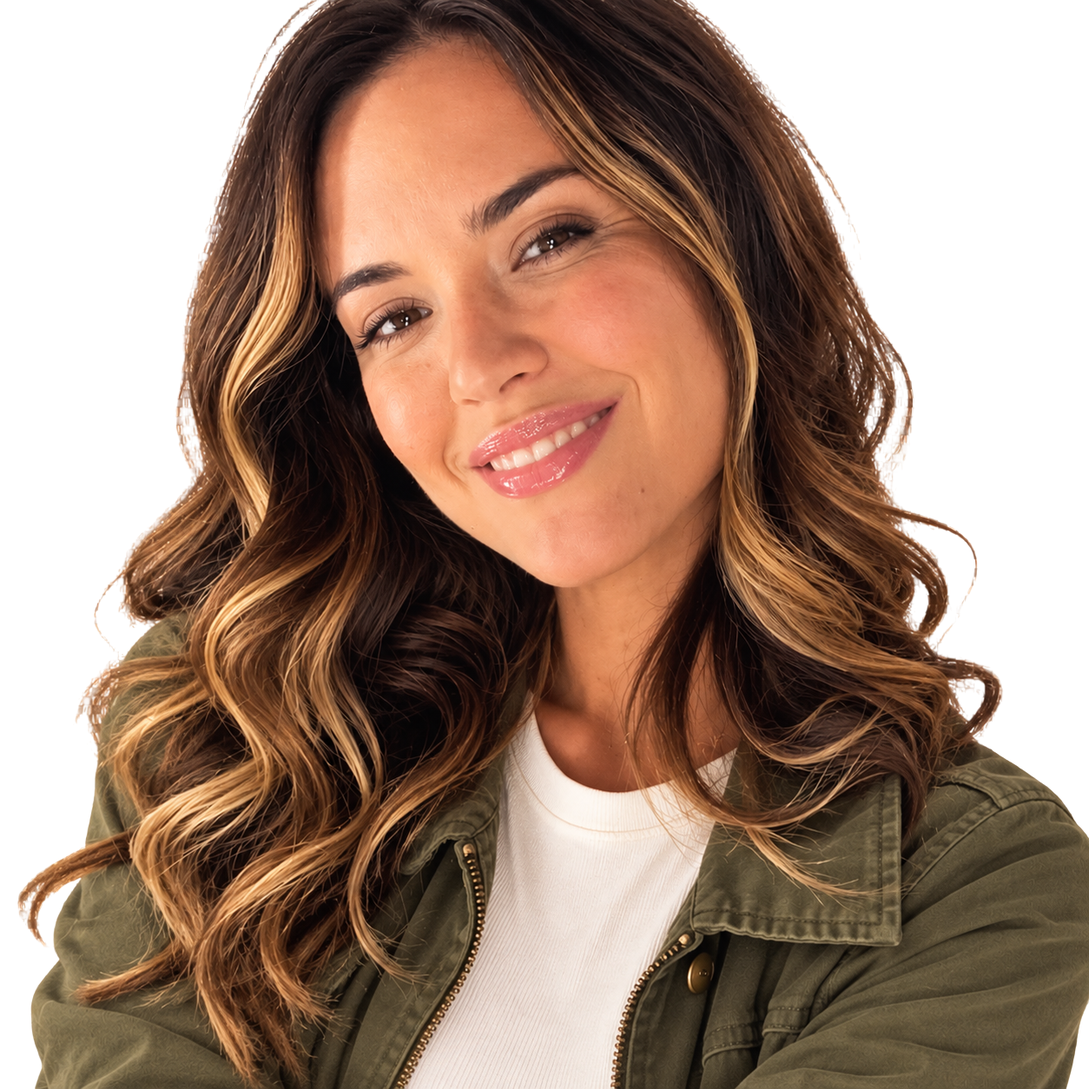
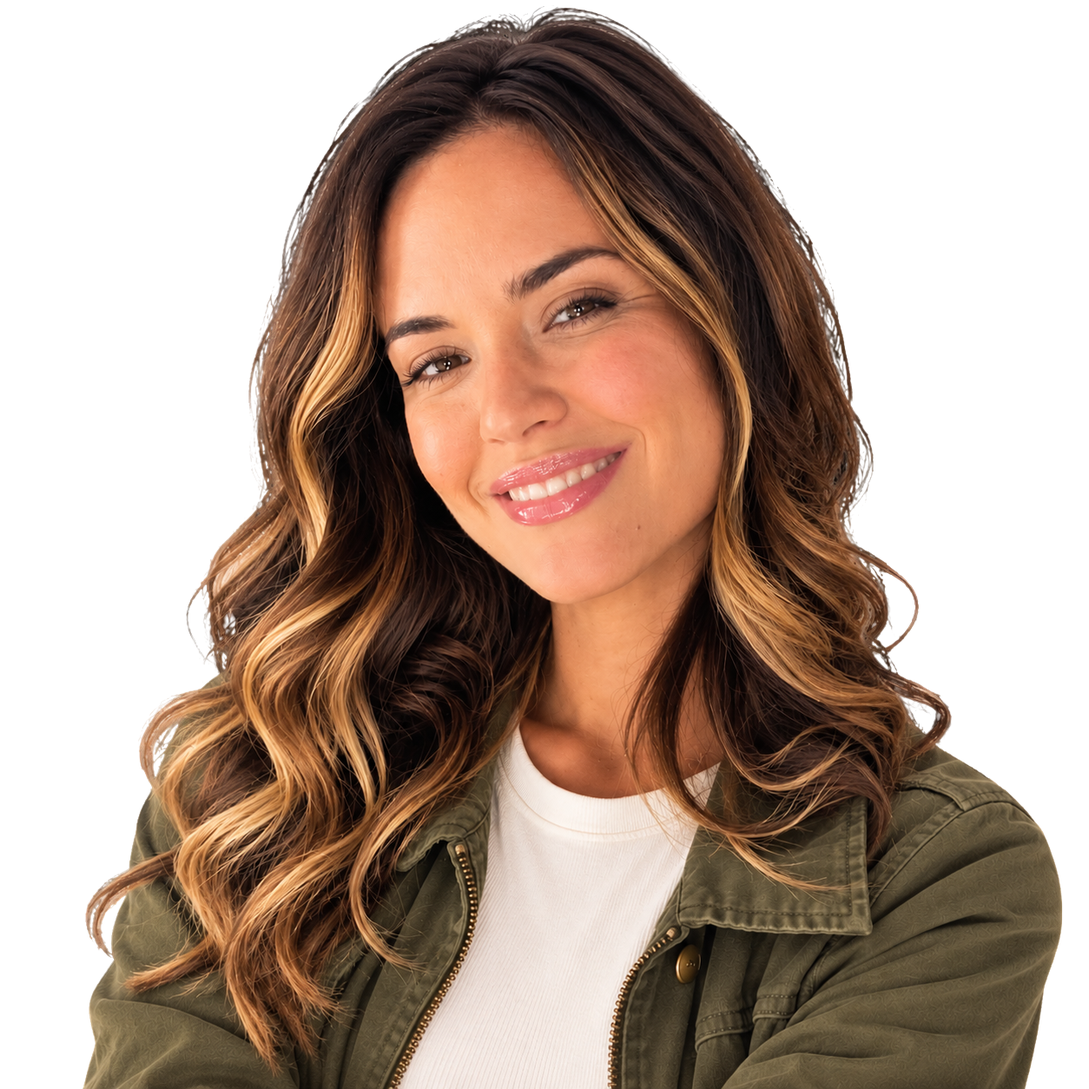
Aceno de conhecidos, pesca mais longe, retratos da Sam e correções no mapa
- Quem já conversou com a Letícia acena (também andando); desconhecidos não.
- A linha de pesca vai mais longe com a vara de fibra e o nível de pesca; boia longe = menos lixo.
- Retratos da Sam com o alto da cabeça completado (sem reduzir a resolução).
- Mar sem a faixa clara embaixo do píer; Rua Bayside chega à orla com faixa de pedestres.
- Bebedouro da sede em (14,10).

diff --git a/docs/wiki/lojas.html b/docs/wiki/lojas.html
@@ -33,7 +33,7 @@
 <h2 id="trattoria">Ricci Trattoria</h2><p class="sub">Cozinha italiana de verdade. Grazie!</p><p>Lugar: <a href="lugares.html#trattoria">Ricci Trattoria</a> · Quem atende: <a class="npc" href="graca.html"><img class="cab" src="img/cabecas/graca.png" alt="" width="24" height="24" loading="lazy">Graça</a> · Bônus: Família Ricci: 20% de desconto na Trattoria.</p><div class="tabela"><table class="wikitable ordenavel"><thead><tr><th>Item</th><th>Preço</th><th>Descrição</th></tr></thead><tbody><tr><td><a class="item" href="item-pizza.html"><img class="ico" src="img/itens/pizza.png" alt="" width="32" height="32" loading="lazy">Pizza Margherita</a></td><td>$45</td><td>+60 de energia. Aperte F para consumir.</td></tr><tr><td><a class="item" href="item-lasanha.html"><img class="ico" src="img/itens/lasanha.png" alt="" width="32" height="32" loading="lazy">Lasanha da Casa</a></td><td>$70</td><td>+85 de energia. Aperte F para consumir.</td></tr><tr><td><a class="item" href="item-tiramisu.html"><img class="ico" src="img/itens/tiramisu.png" alt="" width="32" height="32" loading="lazy">Tiramisù</a></td><td>$50</td><td>+30 de energia. Sobremesa clássica italiana.</td></tr><tr><td><a class="item" href="item-soda.html"><img class="ico" src="img/itens/soda.png" alt="" width="32" height="32" loading="lazy">Soda Italiana</a></td><td>$10</td><td>+15 de energia. Aperte F para consumir.</td></tr><tr><td><a class="item" href="item-vinho.html"><img class="ico" src="img/itens/vinho.png" alt="" width="32" height="32" loading="lazy">Vinho Tinto</a></td><td>$120</td><td>Safra excelente. Presente sofisticado.</td></tr><tr><td><a class="item" href="item-taca_vinho.html"><img class="ico" src="img/itens/taca_vinho.png" alt="" width="32" height="32" loading="lazy">Taça de Vinho</a></td><td>$26</td><td>+16 de energia. Tinto da casa.</td></tr></tbody></table></div>
 <h2 id="bar">Noonan&#x27;s</h2><p class="sub">Bebidas, petiscos e fliperama.</p><p>Lugar: <a href="lugares.html#bar">Noonan&#x27;s</a> · Quem atende: <a class="npc" href="marco.html"><img class="cab" src="img/cabecas/marco.png" alt="" width="24" height="24" loading="lazy">Marco</a></p><div class="tabela"><table class="wikitable ordenavel"><thead><tr><th>Item</th><th>Preço</th><th>Descrição</th></tr></thead><tbody><tr><td><a class="item" href="item-soda.html"><img class="ico" src="img/itens/soda.png" alt="" width="32" height="32" loading="lazy">Soda Italiana</a></td><td>$10</td><td>+15 de energia. Aperte F para consumir.</td></tr><tr><td><a class="item" href="item-drink.html"><img class="ico" src="img/itens/drink.png" alt="" width="32" height="32" loading="lazy">Drinque da Casa</a></td><td>$20</td><td>+10 de energia. Especialidade do Noonan&#x27;s.</td></tr><tr><td><a class="item" href="item-petiscos.html"><img class="ico" src="img/itens/petiscos.png" alt="" width="32" height="32" loading="lazy">Porção de Petiscos</a></td><td>$30</td><td>+35 de energia. Aperte F para consumir.</td></tr><tr><td><a class="item" href="item-vinho.html"><img class="ico" src="img/itens/vinho.png" alt="" width="32" height="32" loading="lazy">Vinho Tinto</a></td><td>$120</td><td>Safra excelente. Presente sofisticado.</td></tr><tr><td><a class="item" href="item-camisa_milan.html"><img class="ico" src="img/itens/camisa_milan.png" alt="" width="32" height="32" loading="lazy">Camisa do Milan</a></td><td>$110</td><td>Rossonera, temporada 2034.</td></tr><tr><td><a class="item" href="item-whisky.html"><img class="ico" src="img/itens/whisky.png" alt="" width="32" height="32" loading="lazy">Uísque Envelhecido</a></td><td>$180</td><td>Doze anos em barril de carvalho.</td></tr><tr><td><a class="item" href="item-cerveja.html"><img class="ico" src="img/itens/cerveja.png" alt="" width="32" height="32" loading="lazy">Cerveja Artesanal</a></td><td>$14</td><td>+12 de energia. A da casa do Noonan&#x27;s.</td></tr><tr><td><a class="item" href="item-caipirinha.html"><img class="ico" src="img/itens/caipirinha.png" alt="" width="32" height="32" loading="lazy">Caipirinha</a></td><td>$22</td><td>+14 de energia. Receita da Dona Graça, ensinada ao Marco.</td></tr></tbody></table></div>
 <h2 id="pharmacy">Farmácia Conti Moretti</h2><p class="sub">Sua saúde em primeiro lugar.</p><p>Lugar: <a href="lugares.html#hospital">Conti Moretti Hospitais</a></p><div class="tabela"><table class="wikitable ordenavel"><thead><tr><th>Item</th><th>Preço</th><th>Descrição</th></tr></thead><tbody><tr><td><a class="item" href="item-vitamina.html"><img class="ico" src="img/itens/vitamina.png" alt="" width="32" height="32" loading="lazy">Vitamina C Efervescente</a></td><td>$30</td><td>+35 de energia. Da Farmácia Conti Moretti.</td></tr><tr><td><a class="item" href="item-cha_camomila.html"><img class="ico" src="img/itens/cha_camomila.png" alt="" width="32" height="32" loading="lazy">Chá de Camomila</a></td><td>$12</td><td>+20 de energia. Calma em forma de chá.</td></tr><tr><td><a class="item" href="item-isotonico.html"><img class="ico" src="img/itens/isotonico.png" alt="" width="32" height="32" loading="lazy">Isotônico</a></td><td>$10</td><td>+18 de energia. Aperte F para consumir.</td></tr><tr><td><a class="item" href="item-barra_cereal.html"><img class="ico" src="img/itens/barra_cereal.png" alt="" width="32" height="32" loading="lazy">Barra de Cereal</a></td><td>$8</td><td>+15 de energia. Aperte F para consumir.</td></tr><tr><td><a class="item" href="item-kit_cuidado.html"><img class="ico" src="img/itens/kit_cuidado.png" alt="" width="32" height="32" loading="lazy">Kit Autocuidado</a></td><td>$80</td><td>Hidratante, chá e uma vela cheirosa. Um presente carinhoso.</td></tr><tr><td><a class="item" href="item-sais_banho.html"><img class="ico" src="img/itens/sais_banho.png" alt="" width="32" height="32" loading="lazy">Sais de Banho</a></td><td>$45</td><td>Lavanda e sal marinho. Banho de spa em casa.</td></tr></tbody></table></div>
-<h2 id="bait">Barraca do Joca</h2><p class="sub">Tudo pra pescaria. &#x27;Peixe bom é peixe fisgado!&#x27;</p><p>Lugar: píer, na praia · Quem atende: <a class="npc" href="joca.html"><img class="cab" src="img/cabecas/joca.png" alt="" width="24" height="24" loading="lazy">Joca</a></p><div class="tabela"><table class="wikitable ordenavel"><thead><tr><th>Item</th><th>Preço</th><th>Descrição</th></tr></thead><tbody><tr><td><a class="item" href="item-isca.html"><img class="ico" src="img/itens/isca.png" alt="" width="32" height="32" loading="lazy">Isca</a></td><td>$5</td><td>Peixes mordem bem mais rápido. Usada automaticamente ao pescar.</td></tr><tr><td><a class="item" href="item-vara_fibra.html"><img class="ico" src="img/itens/vara_fibra.png" alt="" width="32" height="32" loading="lazy">Vara de Fibra de Carbono</a></td><td>$650</td><td>Barra de pesca maior. Muito mais fácil fisgar.</td></tr><tr><td><a class="item" href="item-limao.html"><img class="ico" src="img/itens/limao.png" alt="" width="32" height="32" loading="lazy">Limão</a></td><td>$5</td><td>Ingrediente. Use no fogão da cobertura.</td></tr><tr><td><a class="item" href="item-luvas_vela.html"><img class="ico" src="img/itens/luvas_vela.png" alt="" width="32" height="32" loading="lazy">Luvas de Vela</a></td><td>$60</td><td>Luvas de couro para velejar.</td></tr><tr><td><a class="item" href="item-miniatura_veleiro.html"><img class="ico" src="img/itens/miniatura_veleiro.png" alt="" width="32" height="32" loading="lazy">Veleiro em Miniatura</a></td><td>$150</td><td>Feito à mão, com velas de linho.</td></tr></tbody></table></div>
+<h2 id="bait">Barraca do Joca</h2><p class="sub">Tudo pra pescaria. &#x27;Peixe bom é peixe fisgado!&#x27;</p><p>Lugar: píer, na praia · Quem atende: <a class="npc" href="joca.html"><img class="cab" src="img/cabecas/joca.png" alt="" width="24" height="24" loading="lazy">Joca</a></p><div class="tabela"><table class="wikitable ordenavel"><thead><tr><th>Item</th><th>Preço</th><th>Descrição</th></tr></thead><tbody><tr><td><a class="item" href="item-isca.html"><img class="ico" src="img/itens/isca.png" alt="" width="32" height="32" loading="lazy">Isca</a></td><td>$5</td><td>Peixes mordem bem mais rápido. Usada automaticamente ao pescar.</td></tr><tr><td><a class="item" href="item-vara_fibra.html"><img class="ico" src="img/itens/vara_fibra.png" alt="" width="32" height="32" loading="lazy">Vara de Fibra de Carbono</a></td><td>$650</td><td>Barra de pesca maior e a linha vai 1 tile mais longe. Muito mais fácil fisgar.</td></tr><tr><td><a class="item" href="item-limao.html"><img class="ico" src="img/itens/limao.png" alt="" width="32" height="32" loading="lazy">Limão</a></td><td>$5</td><td>Ingrediente. Use no fogão da cobertura.</td></tr><tr><td><a class="item" href="item-luvas_vela.html"><img class="ico" src="img/itens/luvas_vela.png" alt="" width="32" height="32" loading="lazy">Luvas de Vela</a></td><td>$60</td><td>Luvas de couro para velejar.</td></tr><tr><td><a class="item" href="item-miniatura_veleiro.html"><img class="ico" src="img/itens/miniatura_veleiro.png" alt="" width="32" height="32" loading="lazy">Veleiro em Miniatura</a></td><td>$150</td><td>Feito à mão, com velas de linho.</td></tr></tbody></table></div>
 <h2 id="boutique">La Boutique</h2><p class="sub">Roupas e acessórios da Celeste.</p><p>Lugar: <a href="lugares.html#boutique">La Boutique</a> · Quem atende: <a class="npc" href="celeste.html"><img class="cab" src="img/cabecas/celeste.png" alt="" width="24" height="24" loading="lazy">Celeste</a> · Com o evento de 4 corações, 20% de desconto. Tem provador: dá para ver o look antes de comprar.</p><h3>Acessórios</h3><div class="tabela"><table class="wikitable ordenavel"><thead><tr><th>Acessório</th><th>Preço</th><th>Onde vai</th><th>Descrição</th></tr></thead><tbody><tr><td><a class="item" href="item-oculos_sol.html"><img class="ico" src="img/itens/oculos_sol.png" alt="" width="32" height="32" loading="lazy">Óculos de Sol</a></td><td>$140</td><td>Olhos</td><td>Lentes escuras e armação grossa. Ninguém vê a CEO revirando os olhos.</td></tr><tr><td><a class="item" href="item-oculos_aro.html"><img class="ico" src="img/itens/oculos_aro.png" alt="" width="32" height="32" loading="lazy">Óculos de Aro Dourado</a></td><td>$160</td><td>Olhos</td><td>Aro fino dourado. Dá um ar de quem leu todos os relatórios.</td></tr><tr><td><a class="item" href="item-chapeu_palha.html"><img class="ico" src="img/itens/chapeu_palha.png" alt="" width="32" height="32" loading="lazy">Chapéu de Palha</a></td><td>$90</td><td>Cabeca</td><td>Aba larga para o sol da orla. Combina com a Marina Luthor.</td></tr><tr><td><a class="item" href="item-boina.html"><img class="ico" src="img/itens/boina.png" alt="" width="32" height="32" loading="lazy">Boina Francesa</a></td><td>$85</td><td>Cabeca</td><td>Vinho, de lã, inclinada para o lado. Paris em National City.</td></tr><tr><td><a class="item" href="item-tiara_perolas.html"><img class="ico" src="img/itens/tiara_perolas.png" alt="" width="32" height="32" loading="lazy">Tiara de Pérolas</a></td><td>$220</td><td>Cabeca</td><td>Pérolas pequenas e uma ametista no meio. Discreta, mas nem tanto.</td></tr><tr><td><a class="item" href="item-brincos_ouro.html"><img class="ico" src="img/itens/brincos_ouro.png" alt="" width="32" height="32" loading="lazy">Brincos de Ouro</a></td><td>$180</td><td>Orelhas</td><td>Argolas pequenas de ouro. Clássicas para qualquer reunião.</td></tr><tr><td><a class="item" href="item-brincos_perola.html"><img class="ico" src="img/itens/brincos_perola.png" alt="" width="32" height="32" loading="lazy">Brincos de Pérola</a></td><td>$150</td><td>Orelhas</td><td>Uma pérola em cada orelha. Elegância sem esforço.</td></tr><tr><td><a class="item" href="item-colar_ametista.html"><img class="ico" src="img/itens/colar_ametista.png" alt="" width="32" height="32" loading="lazy">Colar de Ametista</a></td><td>$280</td><td>Pescoco</td><td>Corrente dourada com uma ametista roxa. Roxo Luthor, de novo.</td></tr><tr><td><a class="item" href="item-colar_perolas.html"><img class="ico" src="img/itens/colar_perolas.png" alt="" width="32" height="32" loading="lazy">Colar de Pérolas</a></td><td>$240</td><td>Pescoco</td><td>Um fio de pérolas, como nos retratos antigos da família.</td></tr><tr><td><a class="item" href="item-lenco_seda.html"><img class="ico" src="img/itens/lenco_seda.png" alt="" width="32" height="32" loading="lazy">Lenço de Seda</a></td><td>$110</td><td>Pescoco</td><td>Seda lilás amarrada no pescoço. Leve até no verão.</td></tr><tr><td><a class="item" href="item-bolsa_couro.html"><img class="ico" src="img/itens/bolsa_couro.png" alt="" width="32" height="32" loading="lazy">Bolsa de Couro</a></td><td>$320</td><td>Bolsa</td><td>Couro caramelo com fecho dourado. Cabe o tablet e três canetas.</td></tr><tr><td><a class="item" href="item-bolsa_grife.html"><img class="ico" src="img/itens/bolsa_grife.png" alt="" width="32" height="32" loading="lazy">Bolsa de Grife</a></td><td>$520</td><td>Bolsa</td><td>Roxa, de alça fina, edição limitada. A Celeste só tinha duas.</td></tr></tbody></table></div><h3>Roupas</h3><div class="tabela"><table class="wikitable ordenavel"><thead><tr><th>Look</th><th>Preço</th><th>Descrição</th></tr></thead><tbody><tr><td>Fim de semana</td><td>$250</td><td>Cardigã lilás e jeans. Para fingir que CEO tem folga.</td></tr><tr><td>Blusa listrada</td><td>$220</td><td>Listras de marinheira e calça clara. Combina com a marina.</td></tr><tr><td>Dia de praia</td><td>$180</td><td>Blusa leve de manga curta, cor de água.</td></tr><tr><td>Saia e blazer</td><td>$520</td><td>O conjunto das reuniões de conselho. Roxo Luthor, claro.</td></tr><tr><td>Sobretudo cinza</td><td>$640</td><td>Comprido, com cinto. Ótimo para dias de vento no calçadão.</td></tr><tr><td>Casaco de lã branco</td><td>$700</td><td>Casaco trespassado com cachecol roxo.</td></tr><tr><td>Jaqueta tech</td><td>$900</td><td>Linhas de circuito que brilham. O Brainy vai pedir emprestada.</td></tr><tr><td>Vestido de gala</td><td>$1.500</td><td>Vestido longo roxo com colar dourado. Para as noites em que a Luthor Corp precisa brilhar.</td></tr><tr><td>Vestido de verão</td><td>$380</td><td>Florido, rodado e de manga curta. A Celeste diz que é &quot;o vestido mais feliz da loja&quot;.</td></tr><tr><td>Pretinho básico</td><td>$460</td><td>O vestido preto com cinto dourado que resolve qualquer noite.</td></tr><tr><td>Terno branco</td><td>$680</td><td>Branco do blazer à calça. Ousado para quem vive perto de café.</td></tr><tr><td>Moletom da Luthor Corp</td><td>$160</td><td>Roxo, macio e com o L bordado. Uniforme oficial de domingo.</td></tr><tr><td>Jaqueta jeans</td><td>$300</td><td>Jaqueta jeans com camiseta branca. A Celeste jura que voltou à moda.</td></tr><tr><td>Vestido Lyon</td><td>$520</td><td>Vinho como o cabelo da Celeste, cinto dourado. A peça que abre a coleção.</td></tr><tr><td>Trench lilás</td><td>$700</td><td>O sobretudo da coleção, em lilás Luthor. Para garoar com elegância.</td></tr><tr><td>Conjunto Riviera</td><td>$580</td><td>Azul-marinho com botões claros. Inspirado nas férias da Celeste no sul da França.</td></tr><tr><td>Blusa de seda rosé</td><td>$340</td><td>Seda leve, calça escura. A peça &quot;para o dia inteiro&quot; da coleção.</td></tr></tbody></table></div><figure class="foto"><img src="../img/boutique.png" alt="La Boutique" loading="lazy"></figure>
 <h2 id="marina">Marina Luthor</h2><p>Passeios com o <a class="npc" href="ian.html"><img class="cab" src="img/cabecas/ian.png" alt="" width="24" height="24" loading="lazy">Ian</a>: pesca no alto-mar ($120), pôr do sol ($80) e regata ($50; prêmios de $600, $300 e $120). As encomendas do Ian pagam 25% a mais que a Mesa de Contratos.</p>
   </main>

diff --git a/docs/wiki/itens.html b/docs/wiki/itens.html
@@ -42,7 +42,7 @@
 <h2 id="acessorio">Acessórios</h2><div class="tabela"><table class="wikitable ordenavel"><thead><tr><th>Item</th><th>Descrição</th><th>Compra</th><th>Venda</th></tr></thead><tbody><tr><td><a class="item" href="item-boina.html"><img class="ico" src="img/itens/boina.png" alt="" width="32" height="32" loading="lazy">Boina Francesa</a></td><td>Vinho, de lã, inclinada para o lado. Paris em National City. Aperte F para usar ou dê de presente.</td><td>$85</td><td>—</td></tr><tr><td><a class="item" href="item-bolsa_couro.html"><img class="ico" src="img/itens/bolsa_couro.png" alt="" width="32" height="32" loading="lazy">Bolsa de Couro</a></td><td>Couro caramelo com fecho dourado. Cabe o tablet e três canetas. Aperte F para usar ou dê de presente.</td><td>$320</td><td>—</td></tr><tr><td><a class="item" href="item-bolsa_grife.html"><img class="ico" src="img/itens/bolsa_grife.png" alt="" width="32" height="32" loading="lazy">Bolsa de Grife</a></td><td>Roxa, de alça fina, edição limitada. A Celeste só tinha duas. Aperte F para usar ou dê de presente.</td><td>$520</td><td>—</td></tr><tr><td><a class="item" href="item-brincos_ouro.html"><img class="ico" src="img/itens/brincos_ouro.png" alt="" width="32" height="32" loading="lazy">Brincos de Ouro</a></td><td>Argolas pequenas de ouro. Clássicas para qualquer reunião. Aperte F para usar ou dê de presente.</td><td>$180</td><td>—</td></tr><tr><td><a class="item" href="item-brincos_perola.html"><img class="ico" src="img/itens/brincos_perola.png" alt="" width="32" height="32" loading="lazy">Brincos de Pérola</a></td><td>Uma pérola em cada orelha. Elegância sem esforço. Aperte F para usar ou dê de presente.</td><td>$150</td><td>—</td></tr><tr><td><a class="item" href="item-chapeu_palha.html"><img class="ico" src="img/itens/chapeu_palha.png" alt="" width="32" height="32" loading="lazy">Chapéu de Palha</a></td><td>Aba larga para o sol da orla. Combina com a Marina Luthor. Aperte F para usar ou dê de presente.</td><td>$90</td><td>—</td></tr><tr><td><a class="item" href="item-colar_ametista.html"><img class="ico" src="img/itens/colar_ametista.png" alt="" width="32" height="32" loading="lazy">Colar de Ametista</a></td><td>Corrente dourada com uma ametista roxa. Roxo Luthor, de novo. Aperte F para usar ou dê de presente.</td><td>$280</td><td>—</td></tr><tr><td><a class="item" href="item-colar_perolas.html"><img class="ico" src="img/itens/colar_perolas.png" alt="" width="32" height="32" loading="lazy">Colar de Pérolas</a></td><td>Um fio de pérolas, como nos retratos antigos da família. Aperte F para usar ou dê de presente.</td><td>$240</td><td>—</td></tr><tr><td><a class="item" href="item-lenco_seda.html"><img class="ico" src="img/itens/lenco_seda.png" alt="" width="32" height="32" loading="lazy">Lenço de Seda</a></td><td>Seda lilás amarrada no pescoço. Leve até no verão. Aperte F para usar ou dê de presente.</td><td>$110</td><td>—</td></tr><tr><td><a class="item" href="item-tiara_perolas.html"><img class="ico" src="img/itens/tiara_perolas.png" alt="" width="32" height="32" loading="lazy">Tiara de Pérolas</a></td><td>Pérolas pequenas e uma ametista no meio. Discreta, mas nem tanto. Aperte F para usar ou dê de presente.</td><td>$220</td><td>—</td></tr><tr><td><a class="item" href="item-oculos_aro.html"><img class="ico" src="img/itens/oculos_aro.png" alt="" width="32" height="32" loading="lazy">Óculos de Aro Dourado</a></td><td>Aro fino dourado. Dá um ar de quem leu todos os relatórios. Aperte F para usar ou dê de presente.</td><td>$160</td><td>—</td></tr><tr><td><a class="item" href="item-oculos_sol.html"><img class="ico" src="img/itens/oculos_sol.png" alt="" width="32" height="32" loading="lazy">Óculos de Sol</a></td><td>Lentes escuras e armação grossa. Ninguém vê a CEO revirando os olhos. Aperte F para usar ou dê de presente.</td><td>$140</td><td>—</td></tr></tbody></table></div>
 <h2 id="treat">Petiscos</h2><div class="tabela"><table class="wikitable ordenavel"><thead><tr><th>Item</th><th>Descrição</th><th>Compra</th><th>Venda</th></tr></thead><tbody><tr><td><a class="item" href="item-petisco_pet.html"><img class="ico" src="img/itens/petisco_pet.png" alt="" width="32" height="32" loading="lazy">Petisco de Pet</a></td><td>Selecione e faça carinho no seu bichinho: ele fica muito feliz.</td><td>$12</td><td>—</td></tr></tbody></table></div>
 <h2 id="bait">Isca</h2><div class="tabela"><table class="wikitable ordenavel"><thead><tr><th>Item</th><th>Descrição</th><th>Compra</th><th>Venda</th></tr></thead><tbody><tr><td><a class="item" href="item-isca.html"><img class="ico" src="img/itens/isca.png" alt="" width="32" height="32" loading="lazy">Isca</a></td><td>Peixes mordem bem mais rápido. Usada automaticamente ao pescar.</td><td>$5</td><td>—</td></tr></tbody></table></div>
-<h2 id="tool">Ferramentas</h2><div class="tabela"><table class="wikitable ordenavel"><thead><tr><th>Item</th><th>Descrição</th><th>Compra</th><th>Venda</th></tr></thead><tbody><tr><td><a class="item" href="item-vara_fibra.html"><img class="ico" src="img/itens/vara_fibra.png" alt="" width="32" height="32" loading="lazy">Vara de Fibra de Carbono</a></td><td>Barra de pesca maior. Muito mais fácil fisgar.</td><td>$650</td><td>—</td></tr><tr><td><a class="item" href="item-vara.html"><img class="ico" src="img/itens/vara.png" alt="" width="32" height="32" loading="lazy">Vara de Pesca</a></td><td>Selecione e aperte E de frente para a água.</td><td>—</td><td>—</td></tr></tbody></table></div>
+<h2 id="tool">Ferramentas</h2><div class="tabela"><table class="wikitable ordenavel"><thead><tr><th>Item</th><th>Descrição</th><th>Compra</th><th>Venda</th></tr></thead><tbody><tr><td><a class="item" href="item-vara_fibra.html"><img class="ico" src="img/itens/vara_fibra.png" alt="" width="32" height="32" loading="lazy">Vara de Fibra de Carbono</a></td><td>Barra de pesca maior e a linha vai 1 tile mais longe. Muito mais fácil fisgar.</td><td>$650</td><td>—</td></tr><tr><td><a class="item" href="item-vara.html"><img class="ico" src="img/itens/vara.png" alt="" width="32" height="32" loading="lazy">Vara de Pesca</a></td><td>Selecione e aperte E de frente para a água.</td><td>—</td><td>—</td></tr></tbody></table></div>
 <h2 id="junk">Tralhas</h2><div class="tabela"><table class="wikitable ordenavel"><thead><tr><th>Item</th><th>Descrição</th><th>Compra</th><th>Venda</th></tr></thead><tbody><tr><td><a class="item" href="item-jornal.html"><img class="ico" src="img/itens/jornal.png" alt="" width="32" height="32" loading="lazy">CatCo Molhada</a></td><td>Lixo. Pelo menos você limpou o mar.</td><td>—</td><td>$1</td></tr><tr><td><a class="item" href="item-lata.html"><img class="ico" src="img/itens/lata.png" alt="" width="32" height="32" loading="lazy">Lata Amassada</a></td><td>Lixo. Pelo menos você limpou o mar.</td><td>—</td><td>$1</td></tr></tbody></table></div>
   </main>
 </div>

diff --git a/docs/wiki/guia.html b/docs/wiki/guia.html
@@ -32,7 +32,7 @@
 <h2>Dinheiro</h2>
 <ul><li>O jeito principal é o <a href="laboratorio.html">laboratório</a>: proposta → bancada → produto → Mesa de Contratos.</li><li>Também dá para vender <a href="peixes.html">peixes</a>, <a href="receitas.html">pratos</a>, <a href="horta.html">colheitas e coletáveis</a> e investir em ações LCORP.</li></ul>
 <h2>Amizades</h2>
-<ul><li>Converse com cada pessoa uma vez por período: manhã (6h–12h), tarde (12h–18h) e noite (18h–2h).</li><li>Dê <a href="presentes.html">presentes</a>: até 1 por dia e 2 por semana para cada pessoa.</li><li>250 pontos = 1 coração. Os eventos de coração liberam cenas e bônus.</li><li>Amigas com 2 corações acenam quando você passa, mandam mensagens no celular e abrem a porta de casa.</li></ul>
+<ul><li>Converse com cada pessoa uma vez por período: manhã (6h–12h), tarde (12h–18h) e noite (18h–2h).</li><li>Dê <a href="presentes.html">presentes</a>: até 1 por dia e 2 por semana para cada pessoa.</li><li>250 pontos = 1 coração. Os eventos de coração liberam cenas e bônus.</li><li>Quem já conversou com você acena quando você passa. Amigas com 2 corações mandam mensagens no celular e abrem a porta de casa.</li></ul>
 <h2>Dicas do jogo</h2>
 <ul><li>Dica: projetos só avançam nos dias em que você trabalha neles na bancada.</li><li>Dica: a Mesa de Contratos e a caixa de coleta do píer vendem produtos, peixes e pratos à noite.</li><li>Dica: conversar todo dia aumenta a amizade. Presentes ajudam ainda mais.</li><li>Dica: o Joca, no píer, vende iscas. Peixes mordem bem mais rápido com isca.</li><li>Dica: cozinhe no fogão da cobertura. Pratos dão muita energia e são ótimos presentes.</li><li>Dica: a Bayside Books vende livros com bônus permanentes.</li><li>Dica: F11 alterna a tela cheia.</li><li>Dica: I abre a mochila. Use para organizar os 24 espaços.</li><li>Dica: a porta de vidro da sala leva ao terraço. Plante sementes do Mercado e regue todo dia.</li><li>Dica: conchas e flores aparecem todo dia na praia e no parque. É só passar por cima.</li><li>Dica: a barraquinha de adoção fica no calçadão, perto do Noonan&#x27;s. Que tal um bichinho?</li><li>Dica: à noite, a jukebox do Noonan&#x27;s vira karaokê.</li><li>Dica: o Cine National está aberto! Ótimo lugar para um encontro.</li><li>Dica: o Conti Moretti Hospitais agenda consultas na recepção. Cada especialidade dá um bônus no dia.</li><li>Dica: no computador, você escolhe quantas ações LCORP quer comprar ou vender.</li></ul>
   </main>

diff --git a/docs/wiki/habilidades.html b/docs/wiki/habilidades.html
@@ -27,7 +27,7 @@
     <nav class="trilha"><a href="index.html">Wiki</a></nav>
     <h1>Habilidades</h1>
 <p class="lead">Quatro habilidades sobem com o uso, do nível 0 ao 5. Cada nível dá um bônus pequeno e o nível 5 dá um extra. Veja tudo no app Habilidades do celular.</p>
-<div class="tabela"><table class="wikitable"><thead><tr><th>Habilidade</th><th>Como subir</th><th>Bônus por nível</th><th>Nível 5</th></tr></thead><tbody><tr><td><b>Pesca</b></td><td>Pescar no píer, no lago e no alto-mar.</td><td>Barra de captura 6% maior por nível.</td><td>Nível 5: peixes valem 10% a mais.</td></tr><tr><td><b>Ciência</b></td><td>Trabalhar nas bancadas e lançar produtos.</td><td>A bancada gasta 6% menos energia por nível.</td><td>Nível 5: produtos valem 10% a mais.</td></tr><tr><td><b>Culinária</b></td><td>Cozinhar no fogão.</td><td>Comida dá 5% mais energia por nível.</td><td>Nível 5: pratos valem 15% a mais.</td></tr><tr><td><b>Carisma</b></td><td>Conversar e dar presentes.</td><td>Conversas rendem 5% mais amizade por nível.</td><td>Nível 5: presentes rendem 10% mais amizade.</td></tr></tbody></table></div>
+<div class="tabela"><table class="wikitable"><thead><tr><th>Habilidade</th><th>Como subir</th><th>Bônus por nível</th><th>Nível 5</th></tr></thead><tbody><tr><td><b>Pesca</b></td><td>Pescar no píer, no lago e no alto-mar.</td><td>Barra de captura 6% maior por nível; a cada 2 níveis a linha vai 1 tile mais longe.</td><td>Nível 5: peixes valem 10% a mais.</td></tr><tr><td><b>Ciência</b></td><td>Trabalhar nas bancadas e lançar produtos.</td><td>A bancada gasta 6% menos energia por nível.</td><td>Nível 5: produtos valem 10% a mais.</td></tr><tr><td><b>Culinária</b></td><td>Cozinhar no fogão.</td><td>Comida dá 5% mais energia por nível.</td><td>Nível 5: pratos valem 15% a mais.</td></tr><tr><td><b>Carisma</b></td><td>Conversar e dar presentes.</td><td>Conversas rendem 5% mais amizade por nível.</td><td>Nível 5: presentes rendem 10% mais amizade.</td></tr></tbody></table></div>
 <h2>Experiência por nível</h2>
 <div class="tabela"><table class="wikitable"><thead><tr><th>Nível</th><th>1</th><th>2</th><th>3</th><th>4</th><th>5</th></tr></thead><tbody><tr><td>Experiência</td><td>60</td><td>180</td><td>400</td><td>750</td><td>1200</td></tr></tbody></table></div>
   </main>

diff --git a/docs/wiki/item-vara_fibra.html b/docs/wiki/item-vara_fibra.html
@@ -4,7 +4,7 @@
 <meta charset="utf-8">
 <meta name="viewport" content="width=device-width, initial-scale=1">
 <title>Vara de Fibra de Carbono · Wiki Luthor Life</title>
-<meta name="description" content="Barra de pesca maior. Muito mais fácil fisgar.">
+<meta name="description" content="Barra de pesca maior e a linha vai 1 tile mais longe. Muito mais fácil fisgar.">
 <link rel="icon" href="../img/logo.png">
 <link rel="preconnect" href="https://fonts.googleapis.com">
 <link href="https://fonts.googleapis.com/css2?family=Nunito:wght@400;600;700;800&amp;display=swap" rel="stylesheet">
@@ -27,7 +27,7 @@
     <nav class="trilha"><a href="index.html">Wiki</a> <span>›</span> <a href="itens.html">Itens</a></nav>
     <h1>Vara de Fibra de Carbono</h1>
 <aside class="infobox coisa"><div class="ib-titulo">Vara de Fibra de Carbono</div><div class="ib-icone"><img class="ico grande" src="img/itens/vara_fibra.png" alt="" width="96" height="96" loading="lazy"></div><table><tr><th>Tipo</th><td><a href="itens.html#tool">Ferramentas</a></td></tr><tr><th>Compra</th><td>$650</td></tr></table></aside>
-<p class="lead">Barra de pesca maior. Muito mais fácil fisgar.</p>
+<p class="lead">Barra de pesca maior e a linha vai 1 tile mais longe. Muito mais fácil fisgar.</p>
 <h2>Como conseguir</h2><ul><li>Loja: <a href="lojas.html#bait">Barraca do Joca</a> ($650)</li></ul>
   </main>
 </div>

diff --git a/luthor/game.py b/luthor/game.py
@@ -1473,7 +1473,29 @@ class Game:
         if bait:
             self.remove_item("isca")
         wait = random.uniform(2.0, 6.5) * (0.4 if bait else 1.0)
-        self.fishing = dict(phase="wait", t=wait, where=where, tile=tile, bait=bait)
+        tile, dist = self.cast_tile(tile)
+        self.fishing = dict(phase="wait", t=wait, where=where, tile=tile, bait=bait, dist=dist)
+
+    def cast_reach(self):
+        """Até quantos tiles a linha vai: 1 com a vara simples, +1 com a de fibra de carbono e +1 a cada 2 níveis
+        de pesca (nível 5 com a vara de fibra = 4 tiles)."""
+        return 1 + (1 if self.selected_item() == "vara_fibra" else 0) + habilidades.level(self, "pesca") // 2
+
+    def cast_tile(self, first):
+        """A boia cai no tile de água mais longe dentro do alcance, na direção em que a Letícia olha (a linha não
+        passa por cima de terra, píer ou barco: para na última água seguida)."""
+        px, py = self.player.tile
+        dx, dy = first[0] - px, first[1] - py
+        m = self.current_map
+        where = WATER_TILES.get(m.tile_at(*first))
+        best, dist = first, 1
+        for k in range(2, self.cast_reach() + 1):
+            t = (px + dx * k, py + dy * k)
+            if not (0 <= t[0] < m.w and 0 <= t[1] < m.h) or WATER_TILES.get(m.tile_at(*t)) != where \
+                    or m.object_at(*t):                  # um barco ou outro objeto na água
+                break
+            best, dist = t, k
+        return best, dist
 
     def fishing_input(self, ev):
         f = self.fishing
@@ -1481,7 +1503,7 @@ class Game:
             self.fishing = None
             return
         if f["phase"] == "bite":
-            fish = self.choose_fish(f["where"])
+            fish = self.choose_fish(f["where"], f.get("dist", 1))
             self.fishing = None
             if fish in JUNK:
                 self.add_item(fish)
@@ -1511,8 +1533,10 @@ class Game:
             self.fishing = None
             self.toasts.push("O peixe mordeu e fugiu! Aperte E mais rápido quando aparecer o '!'.", C_MUTED)
 
-    def choose_fish(self, where):
-        if random.random() < 0.07:
+    def choose_fish(self, where, dist=1):
+        """dist = quão longe a boia caiu (cast_tile): mais longe, menos lixo e peixes de valor um pouco mais comuns."""
+        far = max(0, dist - 1)
+        if random.random() < 0.07 - 0.015 * far:
             return random.choice(list(JUNK))
         cands, weights = [], []
         for k, f in FISH.items():
@@ -1528,6 +1552,8 @@ class Game:
                 w *= 0.25
             if "joca_spot" in self.flags and f["value"] >= 100:
                 w *= 2
+            if far and f["value"] >= 60:
+                w *= 1 + 0.12 * far
             cands.append(k)
             weights.append(w)
         if not cands:

diff --git a/luthor/animacoes.py b/luthor/animacoes.py
@@ -394,7 +394,7 @@ def draw_rod(g, surf, cam):
     if cast < 0.45:                                       # a boia voa da ponta da vara até a água
         k = max(0.0, (cast - 0.1) / 0.35)
         bx = tip[0] + (bx - tip[0]) * k
-        by = tip[1] + (by - tip[1]) * k - math.sin(k * math.pi) * 22 * SCALE
+        by = tip[1] + (by - tip[1]) * k - math.sin(k * math.pi) * (16 + 6 * f.get("dist", 1)) * SCALE
     pts = []
     for i in range(9):                                    # linha com uma barriguinha
         k = i / 8
@@ -555,15 +555,17 @@ def _update_waves(g, dt):
     waved = g.__dict__.setdefault("waved", set())
     px, py = g.player.x, g.player.y
     for npc in g.npcs.values():
-        if npc.map != g.map_name or npc.wave_t > 0 or npc.pose or npc.seat_lift is not None or npc.moving:
+        # quem anda também acena (para um instante: npc.paused); sentado ou com algo nas mãos, não
+        if npc.map != g.map_name or npc.wave_t > 0 or npc.pose or npc.seat_lift is not None:
             continue
-        if g.hearts(npc.key) < 2 and npc.key not in (g.dating, g.partner):
+        # quem já conversou com a Letícia pelo menos uma vez (amizade > 0); desconhecidos não acenam
+        if g.friendship.get(npc.key, 0) <= 0 and npc.key not in (g.dating, g.partner):
             continue
         key = (npc.key, g.day, g.period)
         if key in waved:
             continue
         d = math.hypot(px - (npc.fx + 0.5) * TILE, py - npc.base_y) / TILE
-        if 1.8 <= d <= 4.5:
+        if 1.5 <= d <= 5.0:
             waved.add(key)
             npc.face_toward(px, py)
             npc.paused = max(npc.paused, 1.6)

diff --git a/gerar_wiki.py b/gerar_wiki.py
@@ -1256,7 +1256,7 @@ def guia_page():
             f'<ul><li>Converse com cada pessoa uma vez por período: manhã (6h–12h), tarde (12h–18h) e noite (18h–2h).</li>'
             f'<li>Dê <a href="presentes.html">presentes</a>: até 1 por dia e 2 por semana para cada pessoa.</li>'
             f'<li>{HP} pontos = 1 coração. Os eventos de coração liberam cenas e bônus.</li>'
-            '<li>Amigas com 2 corações acenam quando você passa, mandam mensagens no celular e abrem a porta de casa.</li></ul>',
+            '<li>Quem já conversou com você acena quando você passa. Amigas com 2 corações mandam mensagens no celular e abrem a porta de casa.</li></ul>',
             "<h2>Dicas do jogo</h2>",
             "<ul>" + "".join(f"<li>{esc(t)}</li>" for t in data.TIPS) + "</ul>"]
     write("guia.html", "Primeiros passos", "\n".join(body), desc="Guia para começar a jogar.")

diff --git a/luthor/world.py b/luthor/world.py
@@ -398,6 +398,7 @@ def build_city():
         m.tiles[yy][43] = "cross_v"; m.tiles[yy][44] = "cross_v"
     # --- Orla ----------------------------------------------------------------
     m.fill(1, 49, W - 2, 49, "pavement")
+    m.tiles[49][43] = "cross_v"; m.tiles[49][44] = "cross_v"   # a Rua Bayside chega à orla (a calçada não a tapa)
     m.fill(0, 50, W - 1, 50, "road_line_b")
     m.fill(0, 51, W - 1, 51, "road_line_t")
     m.fill(43, 50, 44, 51, "road")
@@ -756,7 +757,7 @@ def build_hq():
     m.add("coffee_table", 20, 13)
     m.add("armchair", 19, 13); m.add("armchair", 22, 13)
     m.add("plant", 24, 16)                    # (24,10) fica livre: é a passagem para a sala de reuniões
-    m.add("cooler", 16, 10)
+    m.add("cooler", 14, 10)
     m.add("plant_big", 32, 10)
     m.finalize()
     return m

diff --git a/luthor/natureza.py b/luthor/natureza.py
@@ -88,6 +88,15 @@ def _sea_info(m):
         for (x, y, t) in m.anim_tiles:
             if t in SEA and (x not in top or y < top[x]):
                 top[x] = y
+        # colunas do píer (ou de outra coisa saindo da areia): a 1ª água fica embaixo dele, e o mar dali para baixo
+        # parecia raso, uma faixa clara até o fim do mapa. Elas usam a linha da praia da coluna vizinha.
+        beach = {x: y for x, y in top.items() if m.tile_at(x, y - 1) == "sand"}
+        if beach:
+            for x in list(top):
+                if x not in beach:
+                    near = min(beach, key=lambda b: abs(b - x))
+                    if beach[near] < top[x]:
+                        top[x] = beach[near]
         runs = []
         cur = None
         for x in range(m.w):

diff --git a/luthor/data.py b/luthor/data.py
@@ -140,7 +140,7 @@ ITEMS.update({
     "vara": dict(name="Vara de Pesca", kind="tool", price=0, icon="rod", color=(160, 110, 60),
                  desc="Selecione e aperte E de frente para a água."),
     "vara_fibra": dict(name="Vara de Fibra de Carbono", kind="tool", price=650, icon="rod", color=(60, 60, 70),
-                       desc="Barra de pesca maior. Muito mais fácil fisgar."),
+                       desc="Barra de pesca maior e a linha vai 1 tile mais longe. Muito mais fácil fisgar."),
     "isca": dict(name="Isca", kind="bait", price=5, icon="bait", color=(200, 120, 90),
                  desc="Peixes mordem bem mais rápido. Usada automaticamente ao pescar."),
 })

diff --git a/luthor/habilidades.py b/luthor/habilidades.py
@@ -16,7 +16,7 @@ MAX_LEVEL = len(LEVELS)
 SKILLS = {
     "pesca": dict(name="Pesca", color=(110, 190, 240), icon="peixe",
                   how="Pescar no píer, no lago e no alto-mar.",
-                  perk="Barra de captura 6% maior por nível.",
+                  perk="Barra de captura 6% maior por nível; a cada 2 níveis a linha vai 1 tile mais longe.",
                   top="Nível 5: peixes valem 10% a mais."),
     "ciencia": dict(name="Ciência", color=(190, 130, 255), icon="frasco",
                     how="Trabalhar nas bancadas e lançar produtos.",
